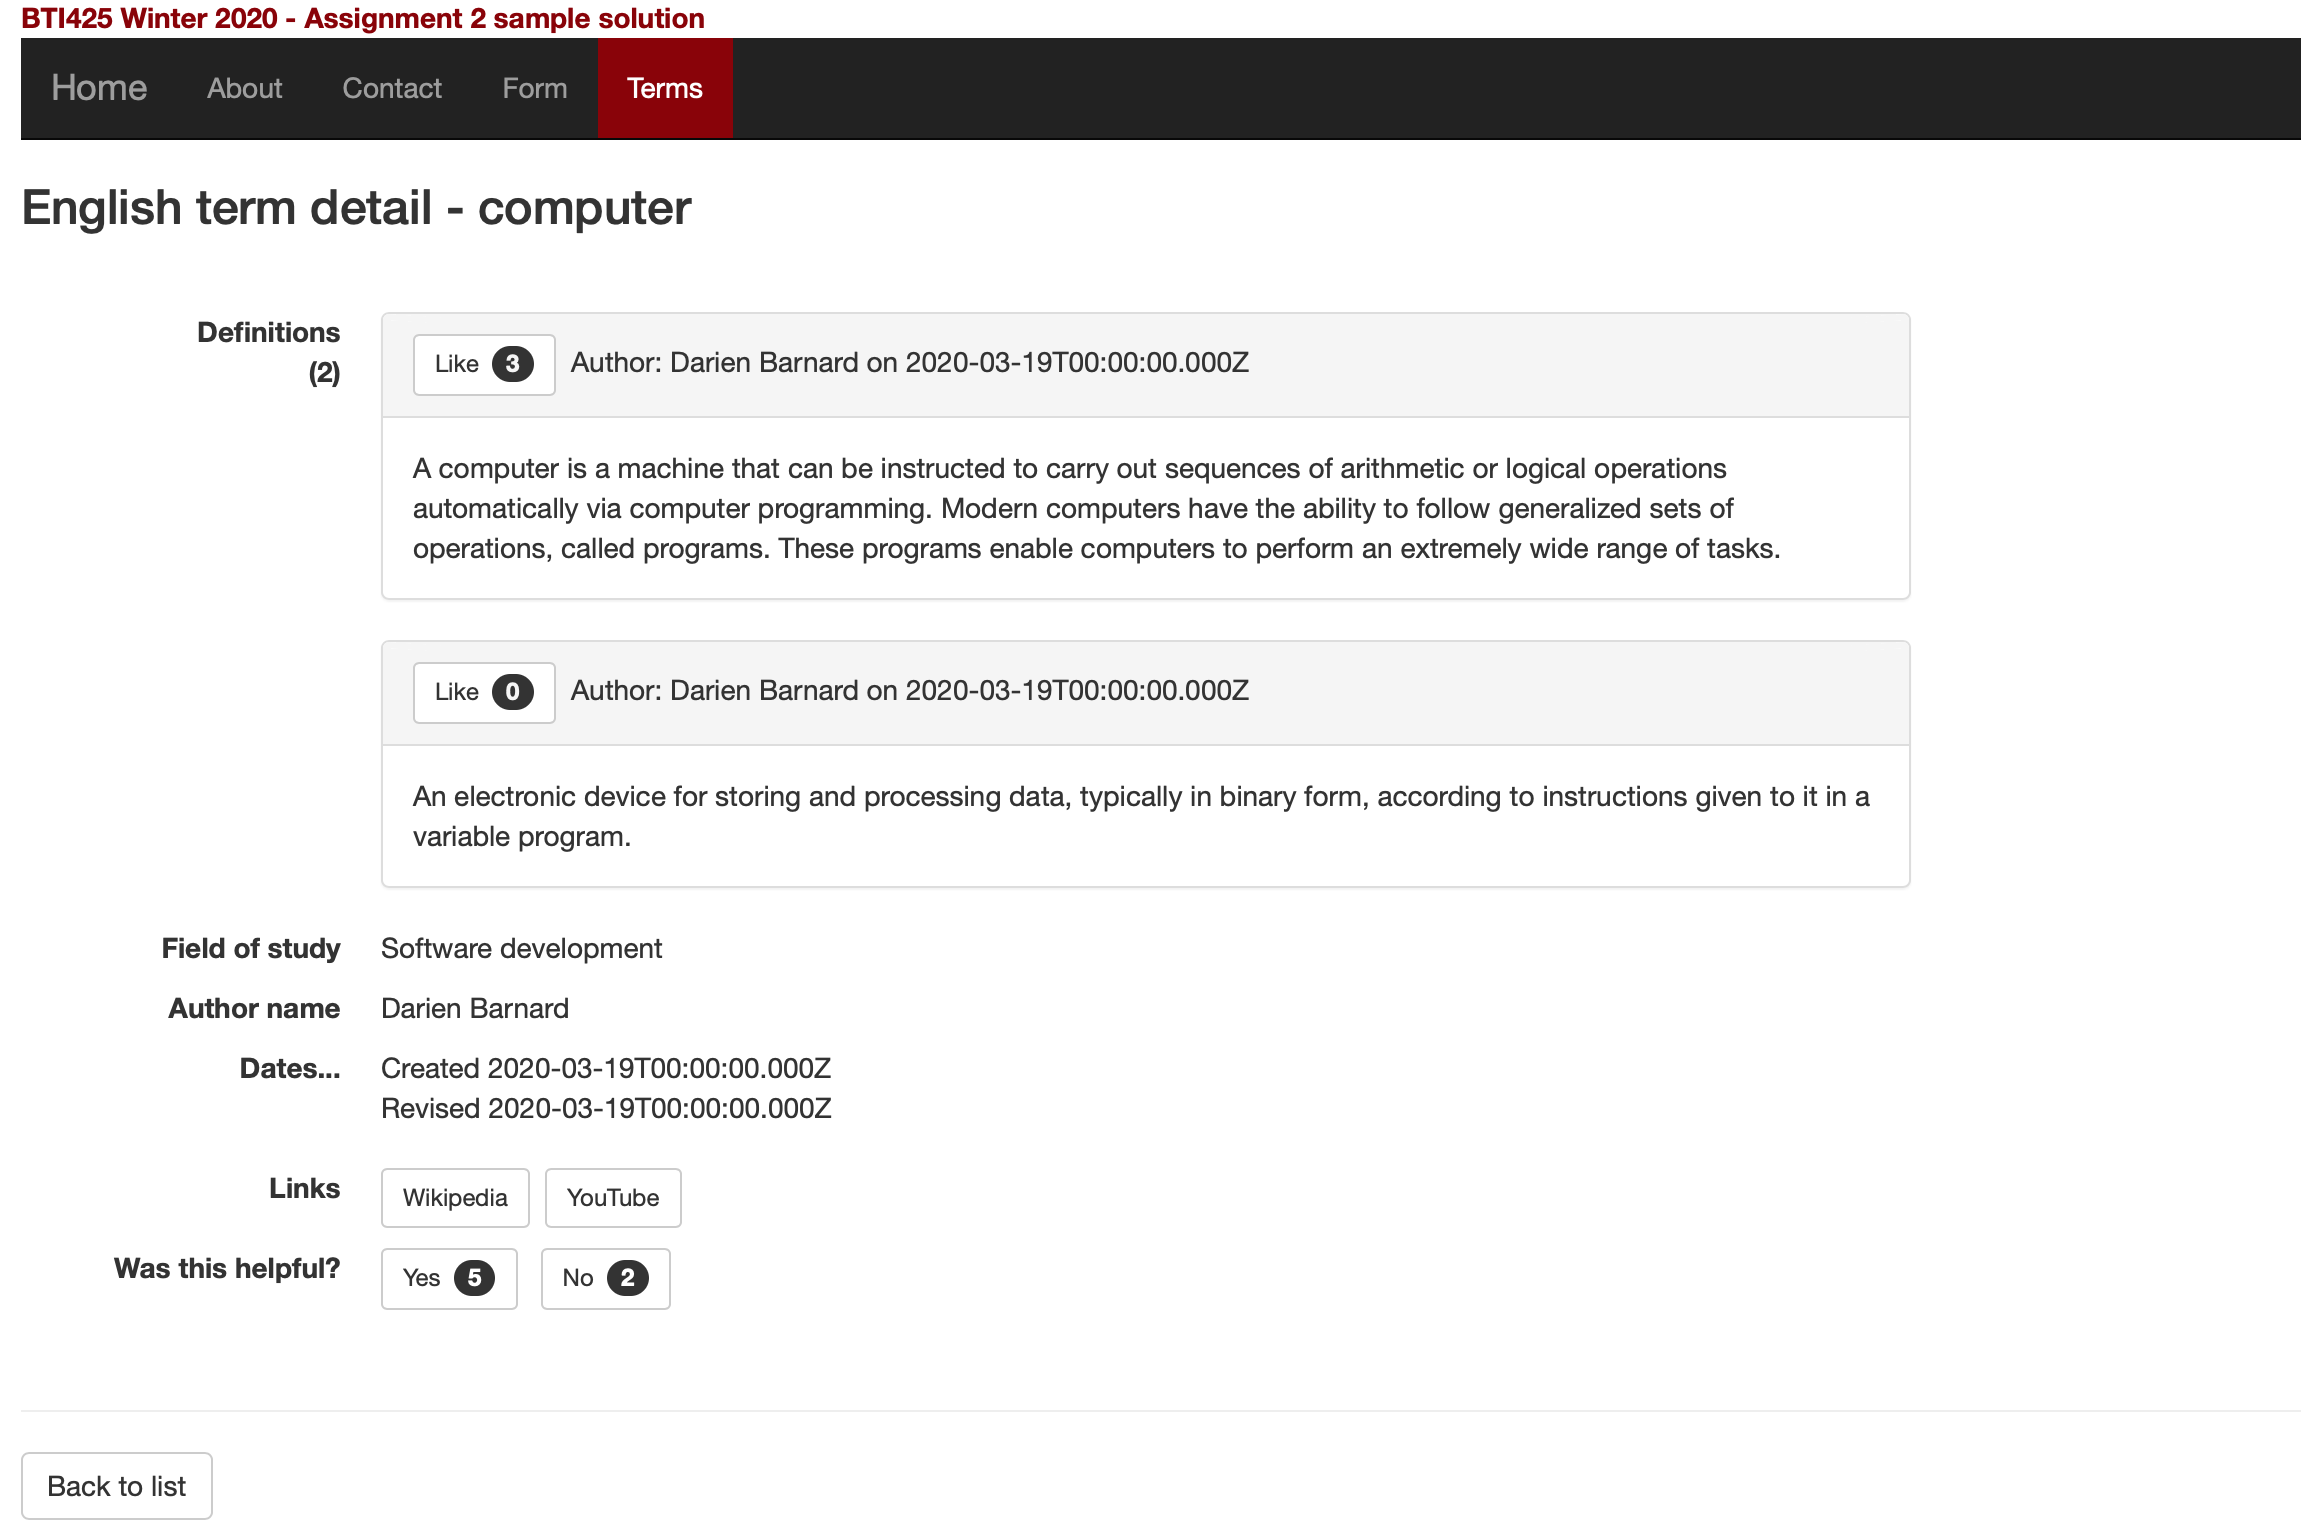
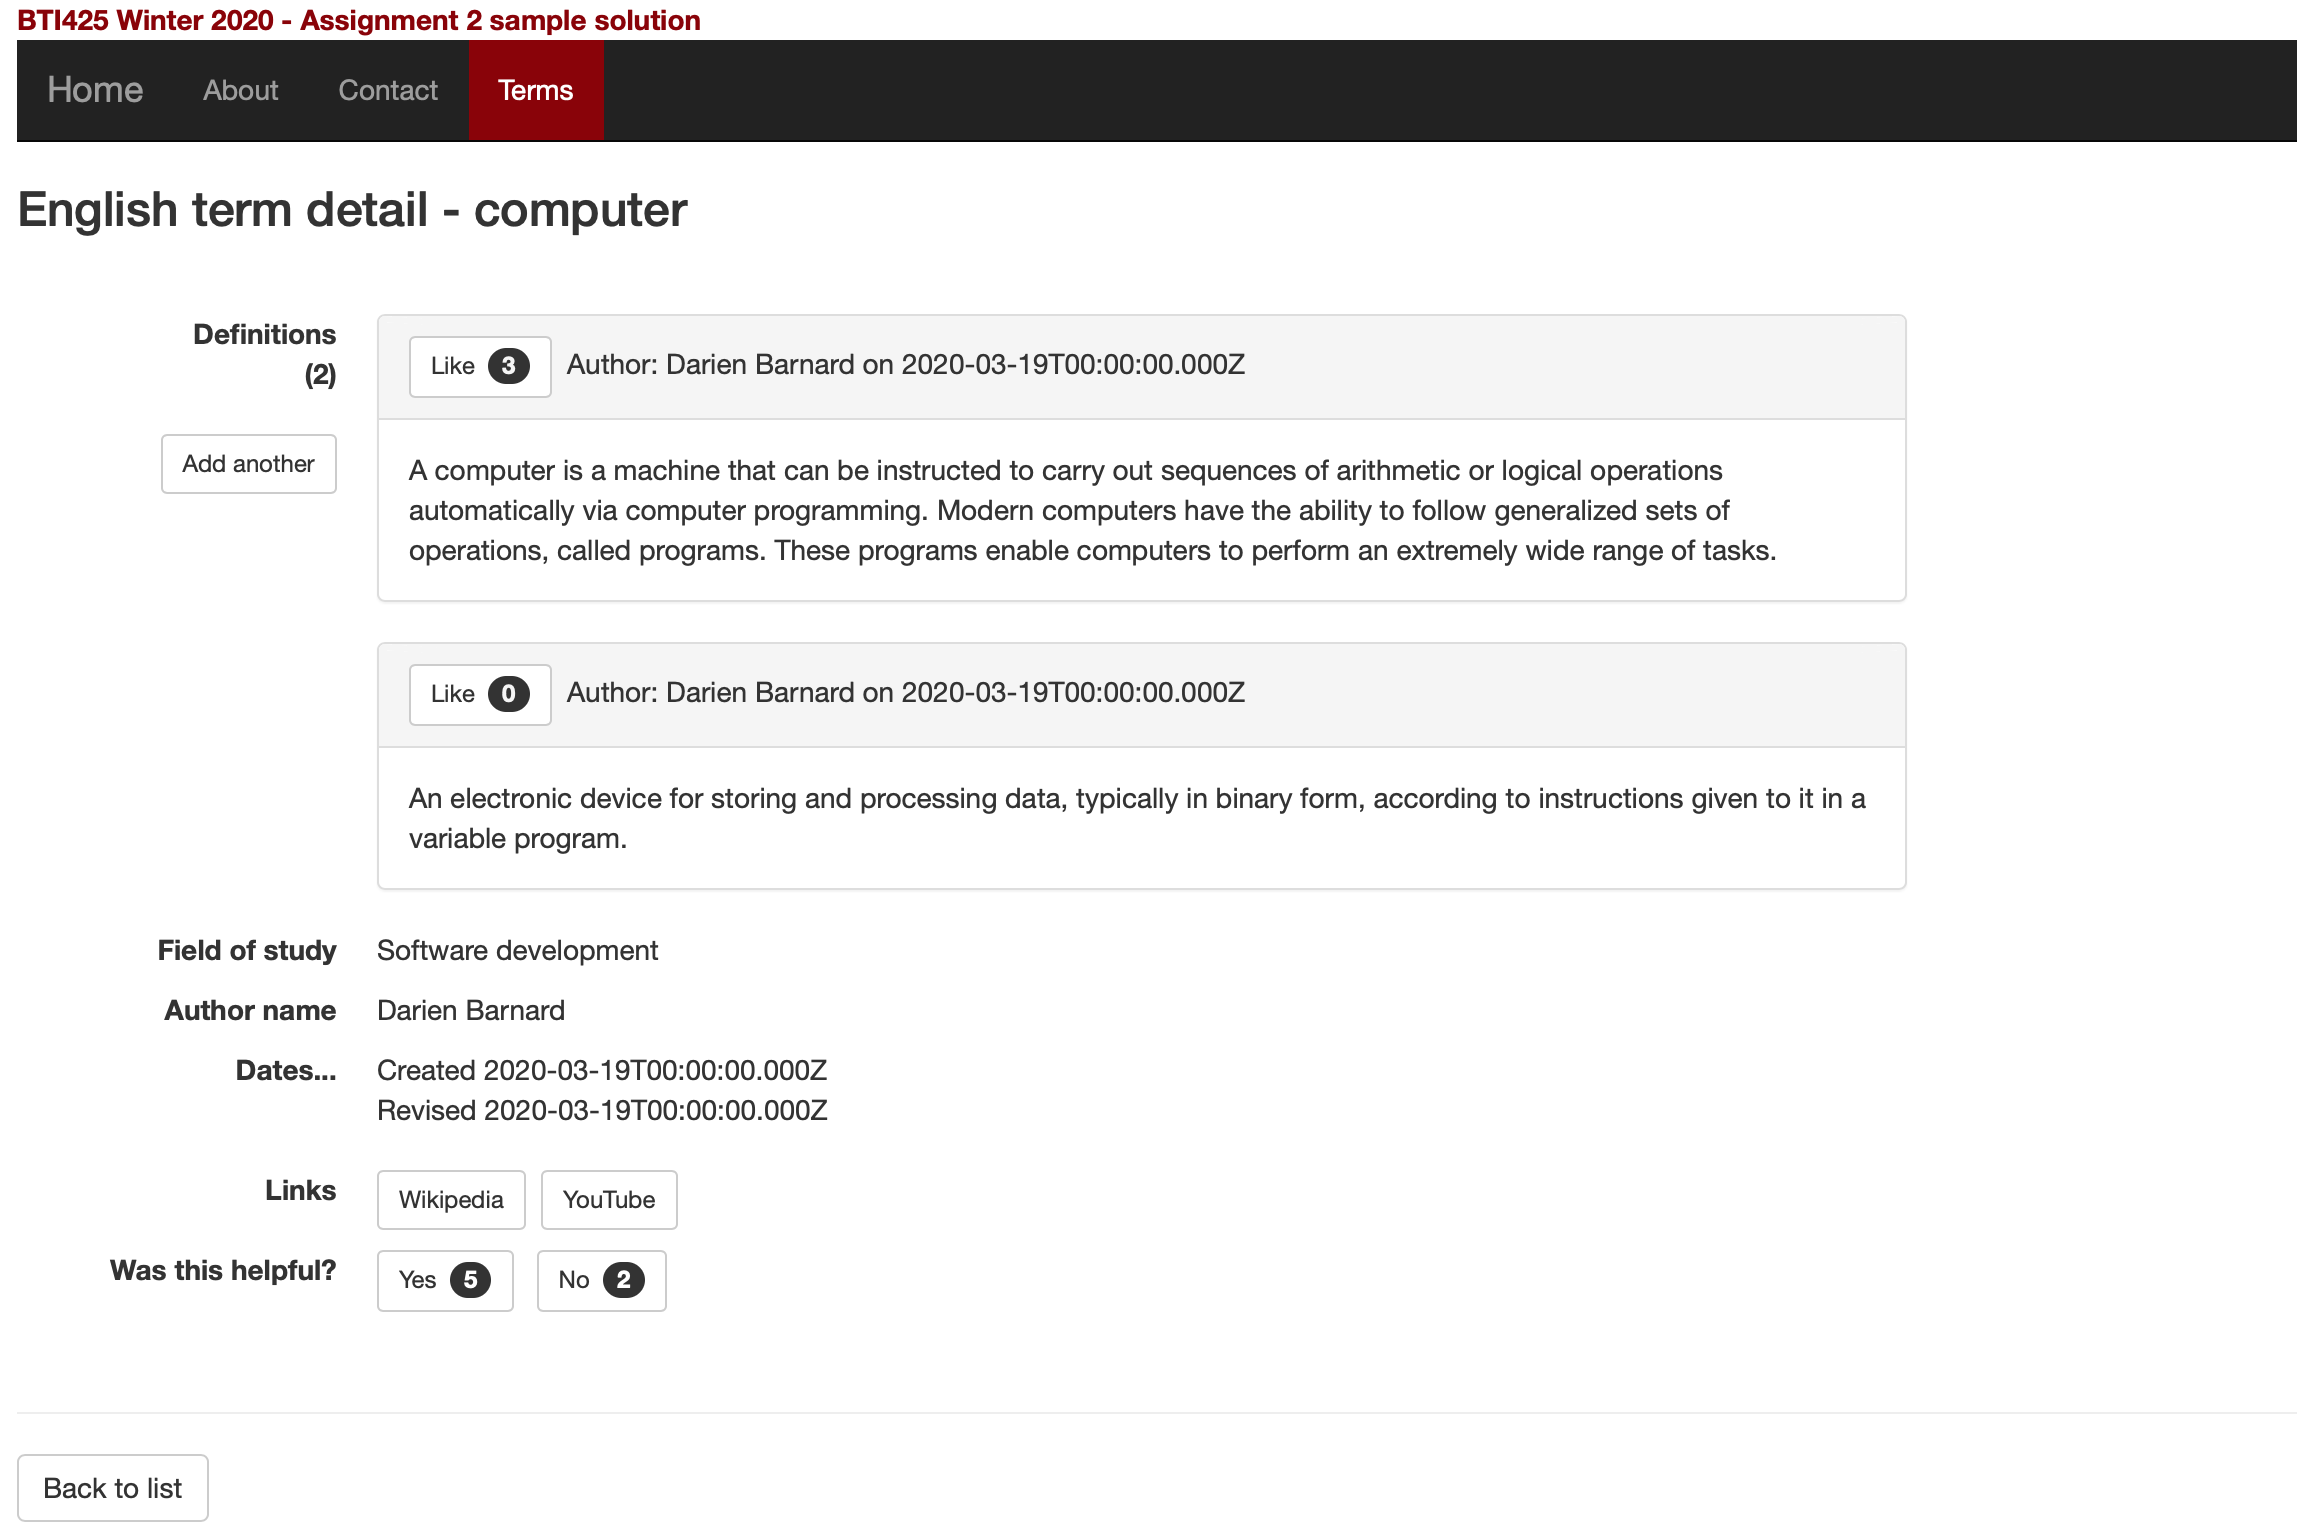
a2 updates

diff --git a/graded-work/assign2.md b/graded-work/assign2.md
@@ -496,6 +496,8 @@ Also remember the best practice that says you must create a *data model class* t
 
 * [JavaScript Spread and Object Mapping](/notes/js-spread-object-mapping)
 
+After the "add new" completes successfully, remember to follow the PRG pattern, and redirect (probably to the "detail" component). 
+
 <img class="border1" src="media/a2-2020-english-term-create.png" alt="">
 
 <br>
@@ -522,11 +524,19 @@ Similarly, each definition should offer the ability to "like" it, again via an e
 
 ### Add a new definition to an English term
 
-Above, we identified a possible user task is to add another definition to an English term. That will be a classic "add new" use case, which will end up sending a request to the web API method that you wrote for that purpose. 
+Above, we identified a possible user task is to add another definition to an English term. This will be a classic "edit existing" (English term) use case, which will end up sending a request to the web API method that you wrote for that purpose. 
 
 When you are composing the form, remember that the web API request will need the English term identifier, so make sure that you pass that along from the term detail component to the "add new" definition component. 
 
-> Note: Screen capture sample is coming soon.
+How should this be seen in the user interface, and supported in code? Well, there are several ways. One way is to recognize that the "English term detail" view (above) already has the existing definitions. Maybe we should just configure an "add another definition" button or a link to that view. That's what you see above in the screen capture. Obviously, we need another route. Then, for either a button or a link, it will navigate to this new component. 
+
+How must we design this new component? Well, from a component code perspective, it needs to load the current English term, so that it has all the data it needs (including identifier). And, it obviously must have a "save" handler method to process the user input. 
+
+What should its UI be? This can vary widely. One approach that your professors took in the sample solution was to recognize that context is important, so we wanted to display the current or existing definition(s) during the "add new definition" process. So essentially, the "detail" component template markup was copied to this new component's template markup, and a form was added. We only need to gather the author name and the definition text, as the other "Definition" object properties are generated in code. 
+
+After the "add new" completes successfully, remember to follow the PRG pattern, and redirect (probably to the "detail" component). 
+
+<img class="border1" src="media/a2-2020-english-term-add-defn.png" alt="">
 
 <br>
 

diff --git a/notes/js-spread-object-mapping.md b/notes/js-spread-object-mapping.md
@@ -113,7 +113,7 @@ let newUserAccount = new UserAccount();
 newUserAccount.password = MakeSafePassword(userData.password1);
 
 // Do any other preparation, for example...
-userData.username = userData.username.toLowerCase().trim();
+this.userData.username = this.userData.username.toLowerCase().trim();
 
 // Create a new object, and assemble the properties 
 // (the sequence is important...)
@@ -123,7 +123,7 @@ userData.username = userData.username.toLowerCase().trim();
 let dataPackage = {
   ...newUserAccount,
   fullname: '',
-  ...userData
+  ...this.userData
 }
 
 // Do any cleanup that's needed (e.g. remove excess properties)
